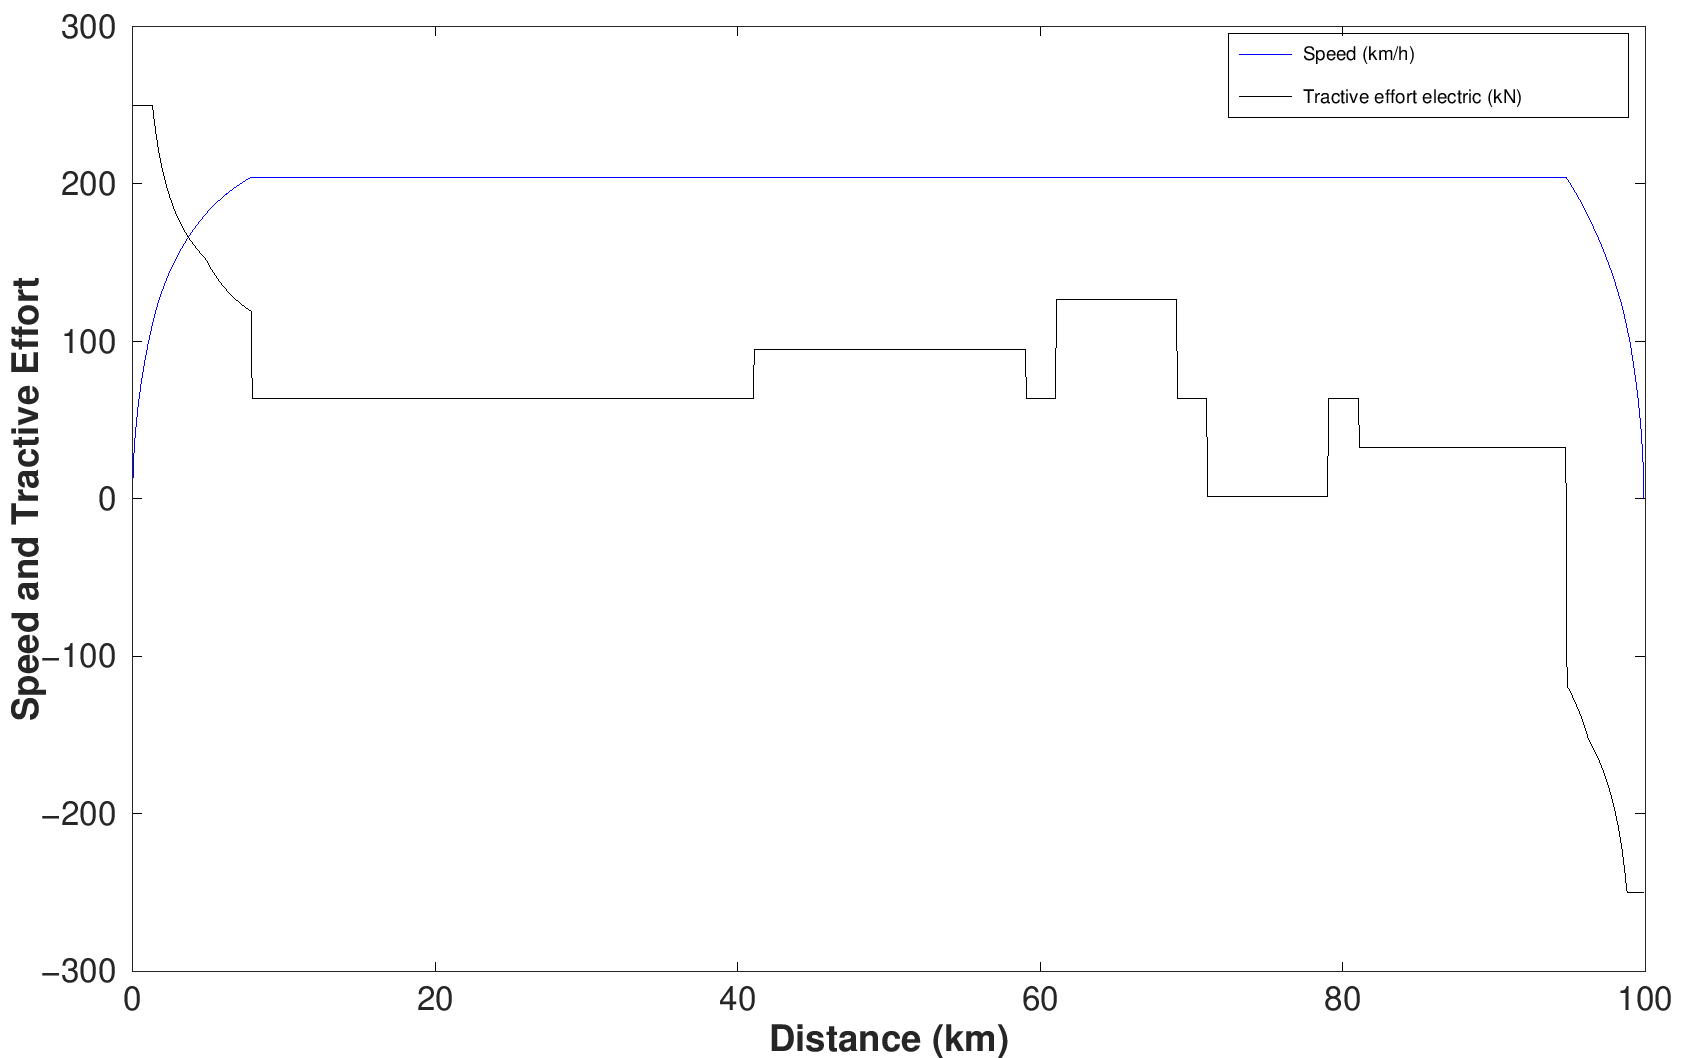
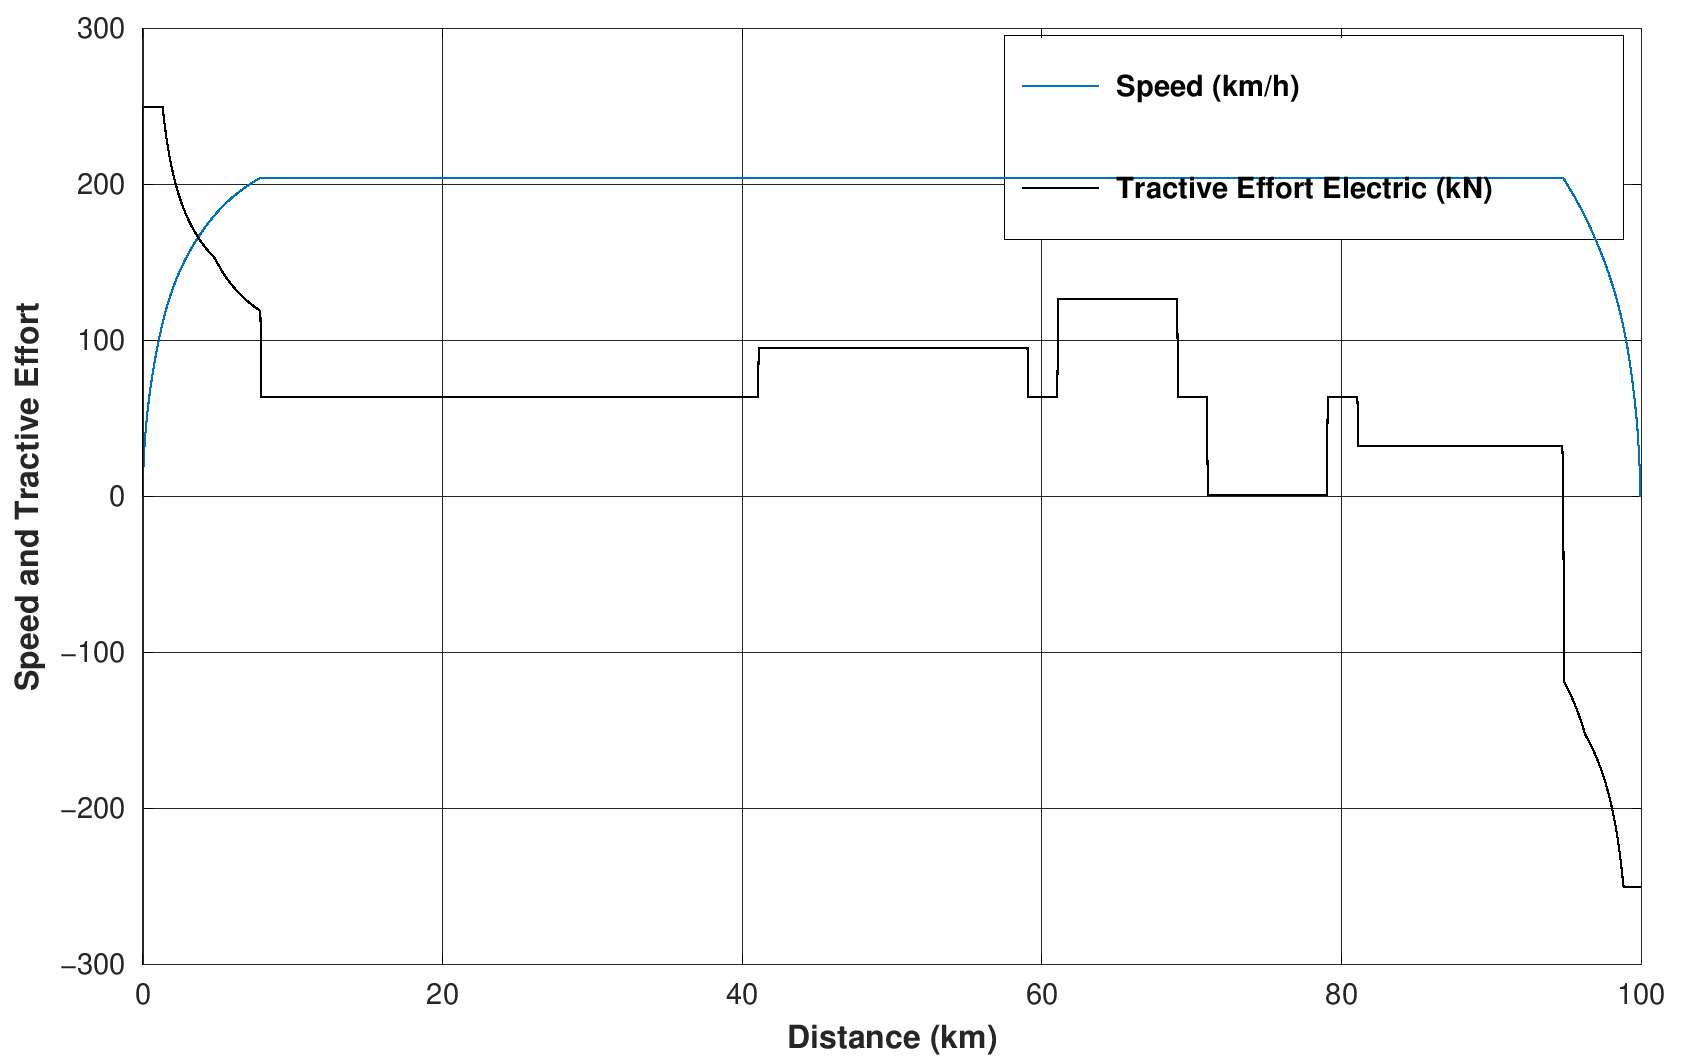
Improved EN Standard Graphs

diff --git a/EN-50641/timetable_plot.m b/EN-50641/timetable_plot.m
@@ -68,29 +68,31 @@ function timetable_plot(HS_train_A_F_data,HS_train_F_A_data,FR_train_A_F_data,SU
     % Set the figure to match the screen size
     set(figureHandle, 'Position', screenSize);
 
-    plot(distance,time,'LineWidth',1)          % timetable plot of train 101
-    set(gca, 'YDir','reverse')
-    hold on
-    plot(distance_102,time_102,'LineWidth',1)  % timetable plot of train 102
-    set(gca, 'YDir','reverse')
-    hold on
-    plot(distance_103,time_103,'LineWidth',1)  % timetable plot of train 103
-    set(gca, 'YDir','reverse')
-    hold on
-    plot(distance_104,time_104,'LineWidth',1)  % timetable plot of train 104
-    set(gca, 'YDir','reverse')
-    hold on
-    plot(distance_201,time_201,'LineWidth',1)  % timetable plot of train 201
-    set(gca, 'YDir','reverse')
-    hold on
-    plot(distance_301,time_301,'LineWidth',1)  % timetable plot of train 301
-    set(gca, 'YDir','reverse')
-    xlim([0 100.02])
-    legend('Train 101','Train 102','Train 103','Train 104','Train 201','Train 301','FontWeight','bold','NumColumns',2,'Location','southwest')
-    xlabel('Distance (km)','FontWeight','bold')
-    ylabel('Time (minute)','FontWeight','bold')
-    grid on
-    set(gca, 'FontSize', 16);
+    % Plot timetable data for all trains with distinct line styles and colors
+    plot(distance, time, 'LineWidth', 2, 'Color', [0 0.4470 0.7410]); % Train 101 - Blue
+    set(gca, 'YDir', 'reverse');
+    hold on;
+    plot(distance_102, time_102, 'LineWidth', 2, 'Color', [0.8500 0.3250 0.0980]); % Train 102 - Red
+    plot(distance_103, time_103, 'LineWidth', 2, 'Color', [0.9290 0.6940 0.1250]); % Train 103 - Yellow
+    plot(distance_104, time_104, 'LineWidth', 2, 'Color', [0.4940 0.1840 0.5560]); % Train 104 - Purple
+    plot(distance_201, time_201, 'LineWidth', 2, 'Color', [0.4660 0.6740 0.1880]); % Train 201 - Green
+    plot(distance_301, time_301, 'LineWidth', 2, 'Color', [0.3010 0.7450 0.9330]); % Train 301 - Cyan
+
+    % Set axis limits and properties
+    xlim([0 100.02]);
+    xlabel('Distance (km)', 'FontWeight', 'bold', 'FontSize', 14);
+    ylabel('Time (minute)', 'FontWeight', 'bold', 'FontSize', 14);
+    set(gca, 'FontSize', 14, 'LineWidth', 1.5);
+
+    % Add a legend (without NumColumns)
+    legend({'Train 101', 'Train 102', 'Train 103', 'Train 104', 'Train 201', 'Train 301'}, ...
+        'FontWeight', 'bold', 'Location', 'southwest');
+
+    % Add gridlines for clarity
+    grid on;
+
+    % Save the plot with high resolution
     desired_filename = '../Plots/timetable_plot.png';
     saveas(gcf, desired_filename);
+
 end

diff --git a/EN-50641/sub_station_voltage_plot.m b/EN-50641/sub_station_voltage_plot.m
@@ -3,8 +3,7 @@ function sub_station_voltage_plot(Vc_mag_Td,Vf_mag_Td)
     % ##
     tic
     % load('required_variable_load_flow_standard.mat')
-    graphics_toolkit ("gnuplot")
-    %  substation_voltage=[0; Vc_mag_Td(:,1)];
+    graphics_toolkit("gnuplot");
 
     % Create a figure handle
     figureHandle = figure;
@@ -15,17 +14,32 @@ function sub_station_voltage_plot(Vc_mag_Td,Vf_mag_Td)
     % Set the figure to match the screen size
     set(figureHandle, 'Position', screenSize);
 
-    plot(Vc_mag_Td(:,1));
-    hold on
-    plot(Vf_mag_Td(:,1));
-    ylim([27,28])
-    xlabel('Time (sec)','FontWeight','bold')
-    ylabel('Volatge Magnitude (kV)','FontWeight','bold')
-    legend('contact line bus bar voltage','negative feeder bus bar voltage','FontWeight','bold')
-    set(gca, 'FontSize', 16);
+    % Plot data with enhanced line styles and colors
+    plot(Vc_mag_Td(:,1), 'LineWidth', 2, 'Color', [0 0.4470 0.7410]); % Blue
+    hold on;
+    plot(Vf_mag_Td(:,1), 'LineWidth', 2, 'Color', [0.8500 0.3250 0.0980]); % Red
 
+    % Set Y-axis limits
+    ylim([27, 28]);
+
+    % Add labels with bold text
+    xlabel('Time (sec)', 'FontWeight', 'bold', 'FontSize', 16);
+    ylabel('Voltage Magnitude (kV)', 'FontWeight', 'bold', 'FontSize', 16);
+
+    % Add legend with bold font
+    legend({'Contact line bus bar voltage', 'Negative feeder bus bar voltage'}, ...
+        'FontWeight', 'bold', 'FontSize', 14, 'Location', 'best');
+
+    % Enable grid for better readability
+    grid on;
+
+    % Set axis font size and line width
+    set(gca, 'FontSize', 16, 'LineWidth', 1.5);
+
+    % Save the plot with high resolution
     desired_filename = '../Plots/sub_station_voltage.png';
     saveas(gcf, desired_filename);
+
 
     toc
 end

diff --git a/EN-50641/train_101_voltage_current_profile.m b/EN-50641/train_101_voltage_current_profile.m
@@ -100,21 +100,26 @@ function train_101_voltage_current_profile(HS_train_A_F_data,d,line_data_M_emp,d
     % Set the figure to match the screen size
     set(figureHandle, 'Position', screenSize);
 
-    subplot(2,1,1)
-    plot(train_distance_from_start,train_current_abs);
-    ylim([-300 400])
-    xlabel('Distance (km)','FontWeight','bold')
-    ylabel('Train Current (Amp)','FontWeight','bold')
-    set(gca, 'FontSize', 16);
-    subplot(2,1,2)
-    plot(train_distance_from_start,voltage_train_abs);
-    xlabel('Distance (km)','FontWeight','bold')
-    ylabel('Train Voltage (kV)','FontWeight','bold')
-    set(gca, 'FontSize', 16);
-    % plot(train_distance_from_start,train_current_ang);
+    % Plot train current profile in the first subplot
+    subplot(2,1,1);
+    plot(train_distance_from_start, train_current_abs, 'LineWidth', 2, 'Color', [0 0.4470 0.7410]); % Blue
+    ylim([-300 400]);
+    xlabel('Distance (km)', 'FontWeight', 'bold', 'FontSize', 14);
+    ylabel('Train Current (Amp)', 'FontWeight', 'bold', 'FontSize', 14);
+    grid on;
+    set(gca, 'FontSize', 14, 'LineWidth', 1.5);
 
+    % Plot train voltage profile in the second subplot
+    subplot(2,1,2);
+    plot(train_distance_from_start, voltage_train_abs, 'LineWidth', 2, 'Color', [0.8500 0.3250 0.0980]); % Red
+    xlabel('Distance (km)', 'FontWeight', 'bold', 'FontSize', 14);
+    ylabel('Train Voltage (kV)', 'FontWeight', 'bold', 'FontSize', 14);
+    grid on;
+    set(gca, 'FontSize', 14, 'LineWidth', 1.5);
 
+    % Save the plot with high resolution
     desired_filename = '../Plots/voltage_current_profile.png';
     saveas(gcf, desired_filename);
+
     toc
 end

diff --git a/EN-50641/speed_TE_plot.m b/EN-50641/speed_TE_plot.m
@@ -25,15 +25,32 @@ function speed_TE_plot(HS_train_A_F_data)
     % Set the figure to match the screen size
     set(figureHandle, 'Position', screenSize);
 
-    plot(distance,speed,'Color','b','LineWidth',1)
-    hold on
-    plot(distance,tractive_effort,'Color','k','LineWidth',1)
-    xlabel('Distance (km)','FontWeight','bold')
-    ylabel('Speed and Tractive Effort','FontWeight','bold')
-    % xlim([0 100.5])
-    ylim([-300 300])
-    legend('Speed (km/h)','Tractive effort electric (kN)','FontWeight','bold')
-    set(gca, 'FontSize', 16);
+    % Plot speed with blue color and thicker lines
+    plot(distance, speed, 'Color', [0 0.4470 0.7410], 'LineWidth', 2); % Blue
+    hold on;
+
+    % Plot tractive effort with black color and thicker lines
+    plot(distance, tractive_effort, 'Color', [0 0 0], 'LineWidth', 2); % Black
+
+    % Add labels with bold font
+    xlabel('Distance (km)', 'FontWeight', 'bold', 'FontSize', 14);
+    ylabel('Speed and Tractive Effort', 'FontWeight', 'bold', 'FontSize', 14);
+
+    % Set axis limits
+    ylim([-300 300]);
+
+    % Add a legend with bold font
+    legend({'Speed (km/h)', 'Tractive Effort Electric (kN)'}, ...
+        'FontWeight', 'bold', 'FontSize', 14, 'Location', 'best');
+
+    % Add grid for better readability
+    grid on;
+
+    % Set axis font size and line width
+    set(gca, 'FontSize', 14, 'LineWidth', 1.5);
+
+    % Save the plot with high resolution
     desired_filename = '../Plots/speed_te_plot.png';
     saveas(gcf, desired_filename);
+
 end

diff --git a/EN-50641/sub_station_current_plot.m b/EN-50641/sub_station_current_plot.m
@@ -36,15 +36,31 @@ function sub_station_current_plot(sub_station_catenary_current,sub_station_feede
     % Set the figure to match the screen size
     set(figureHandle, 'Position', screenSize);
 
-    plot(sub_station_catenary_current_abs);
-    hold on
-    plot(sub_station_feeder_current_abs);
-    xlabel('Time (sec)','FontWeight','bold')
-    ylabel('Current Magnitude (Amp)','FontWeight','bold')
-    legend('contact line total current','negative feeder total current','FontWeight','bold')
-    set(gca, 'FontSize', 16);
+    % Plot data with thicker lines and distinguishable colors
+    plot(sub_station_catenary_current_abs, 'LineWidth', 2, 'Color', [0 0.4470 0.7410]); % Blue
+    hold on;
+    plot(sub_station_feeder_current_abs, 'LineWidth', 2, 'Color', [0.8500 0.3250 0.0980]); % Red
 
+    % Add labels with bold text
+    xlabel('Time (sec)', 'FontWeight', 'bold', 'FontSize', 16);
+    ylabel('Current Magnitude (Amp)', 'FontWeight', 'bold', 'FontSize', 16);
+
+    % Add legend with bold font
+    legend({'Contact line total current', 'Negative feeder total current'}, ...
+        'FontWeight', 'bold', 'FontSize', 14, 'Location', 'best');
+
+    % Improve grid visibility
+    grid on;
+
+    % Set axis font size and line width
+    set(gca, 'FontSize', 16, 'LineWidth', 1.5);
+
+    % Set tight axis limits for better visualization
+    axis tight;
+
+    % Save the plot with high resolution
     desired_filename = '../Plots/sub_station_current.png';
     saveas(gcf, desired_filename);
+
     toc
 end

diff --git a/Frontend/pages/EN_Train_Timetable.py b/Frontend/pages/EN_Train_Timetable.py
@@ -37,7 +37,7 @@ def main():
             unsafe_allow_html=True,
         )
 
-    st.markdown("<h1 class='title'>Train timetable plot</h1>", unsafe_allow_html=True)
+    st.markdown("<h1 class='title'>Train Timetable Plot</h1>", unsafe_allow_html=True)
     add_vertical_space(1)
 
     # if st.button("Show train timetable plot"):
